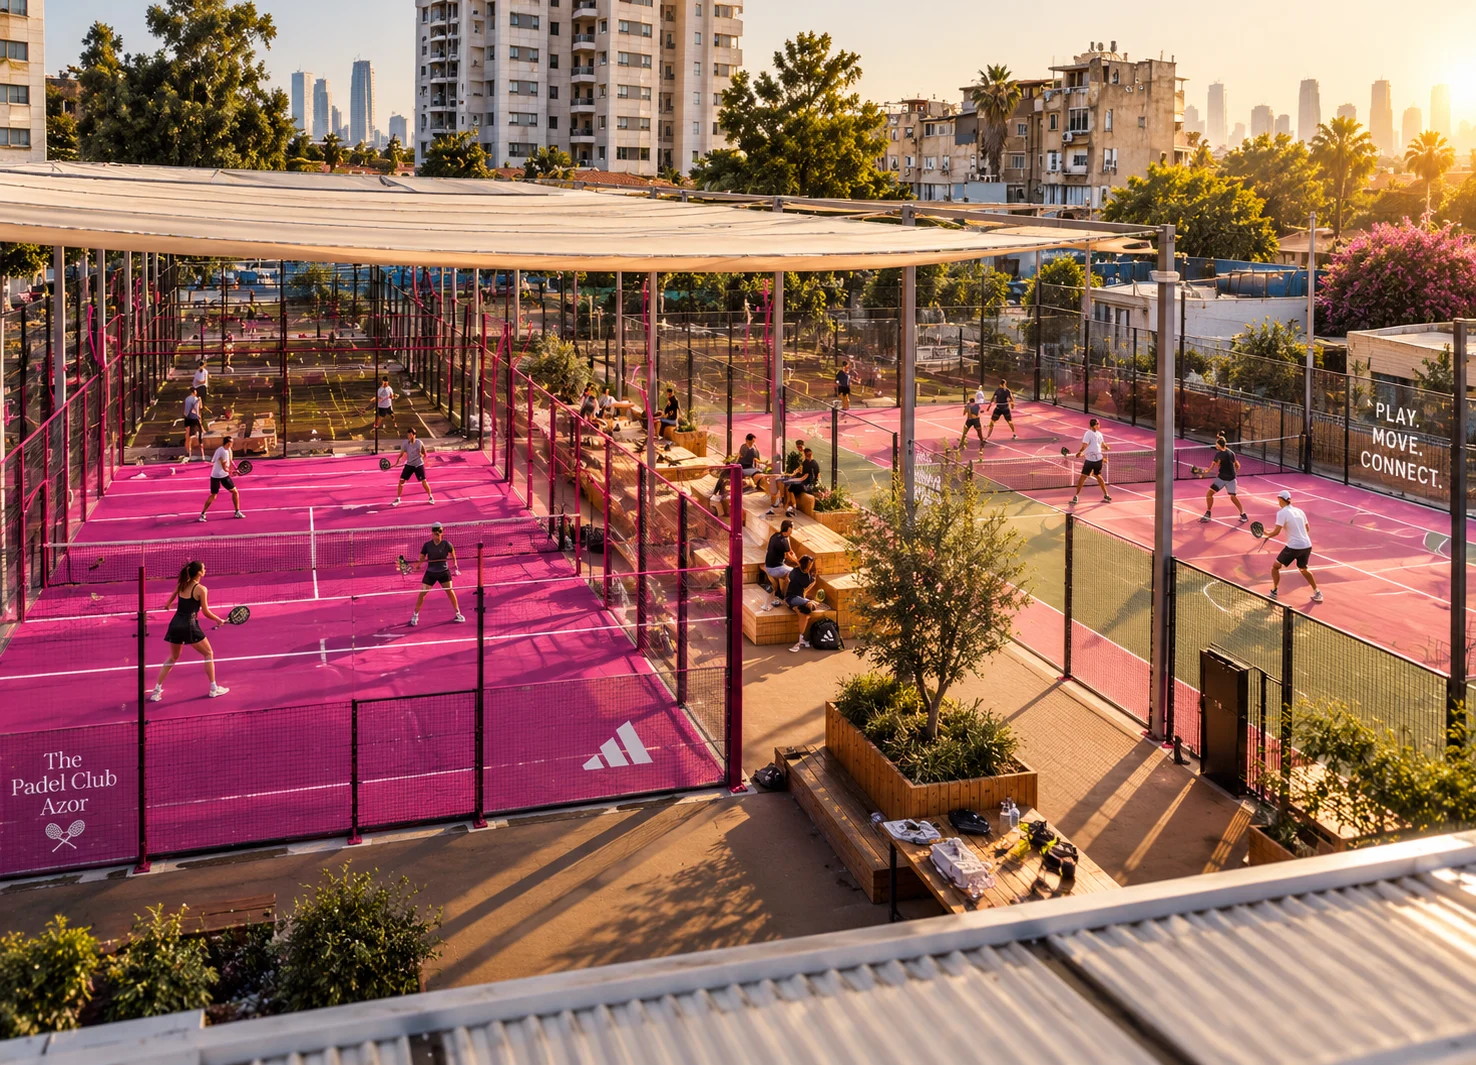
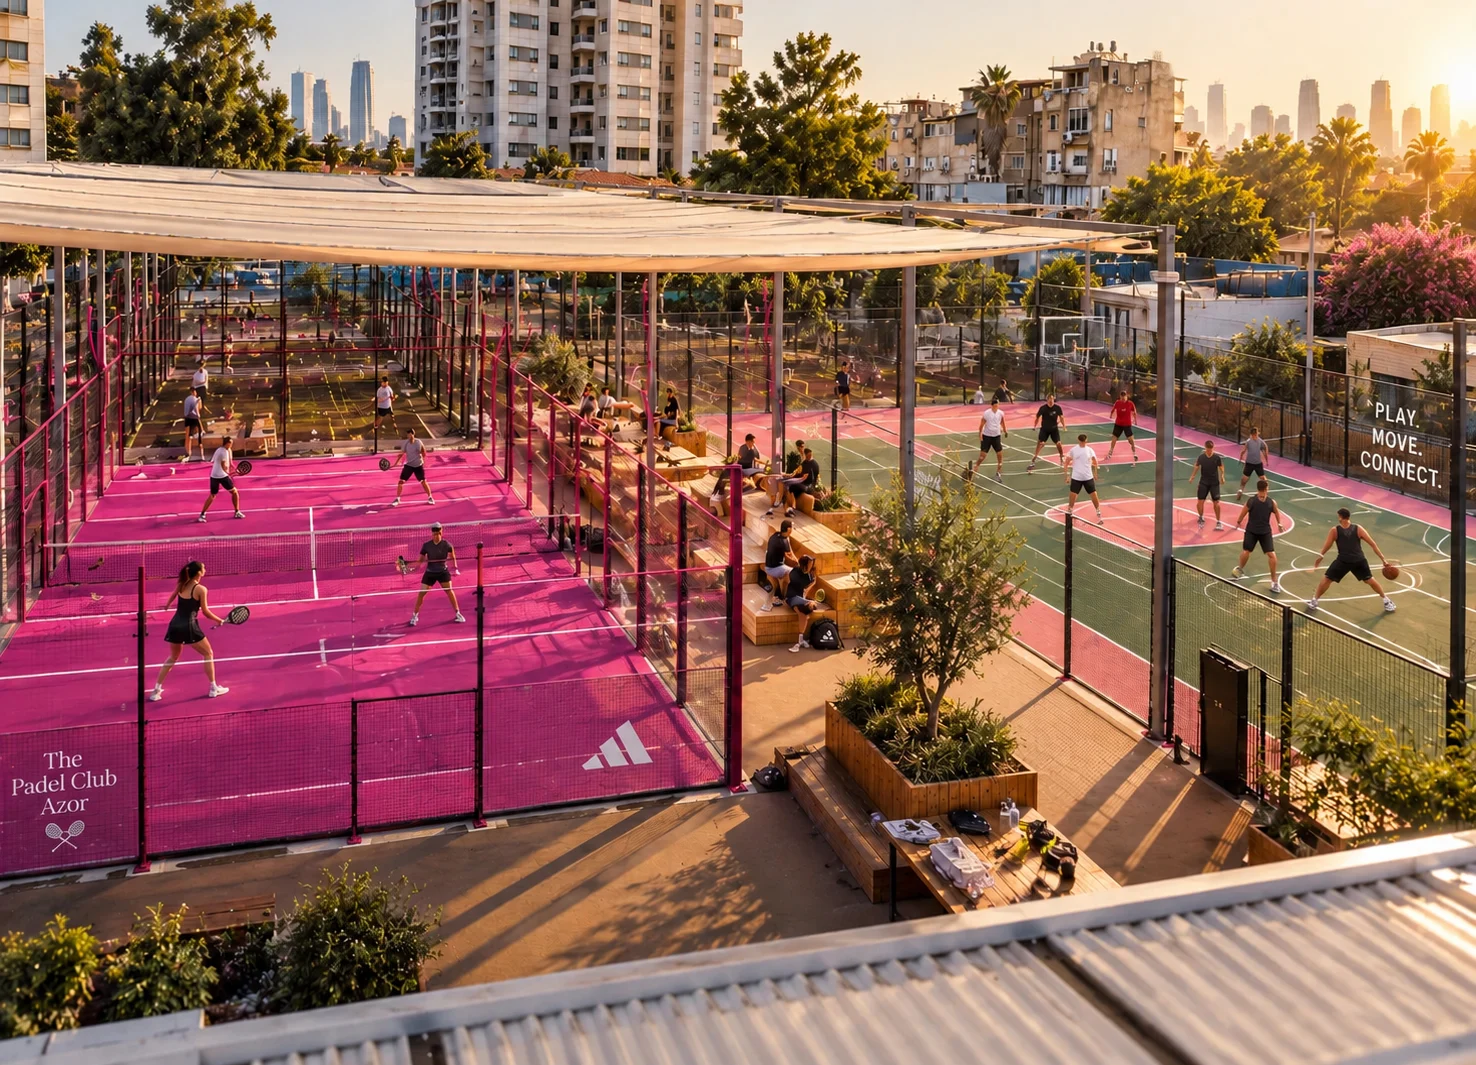
About: new image supplied by Snir (basketball court on the right)
Same 1476x1065 frame, converted with cwebp -q 86 (source kept in handoff-extra/).
Cache-busting query on the img so browsers that cached the old file show the new one.

diff --git a/index.html b/index.html
@@ -112,8 +112,8 @@
   <!-- 3. About -->
   <section class="split split-about" id="about">
     <figure class="split-media">
-      <img src="assets/img/about.webp" width="1476" height="1065" loading="lazy" decoding="async"
-           alt="מבט מלמעלה על מגרשי הפאדל של המועדון בשעת שקיעה, שחקנים על המגרשים ואזור הישיבה המוצל ביניהם">
+      <img src="assets/img/about.webp?v=2" width="1476" height="1065" loading="lazy" decoding="async"
+           alt="מבט מלמעלה על המועדון בשעת שקיעה, שחקני פאדל על המגרשים הוורודים, אזור הישיבה המוצל ומגרש הכדורסל">
     </figure>
     <div class="split-copy" data-reveal>
       <p class="eyebrow" dir="ltr" lang="en">THE PADEL CLUB AZOR</p>
